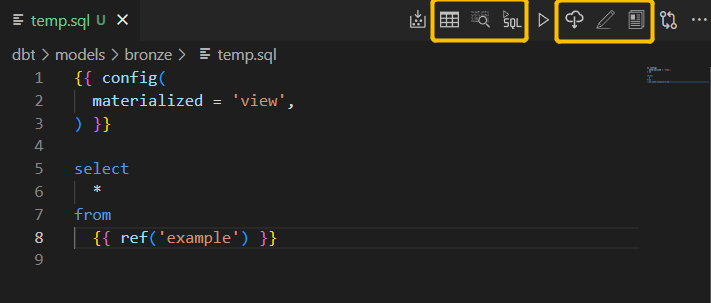
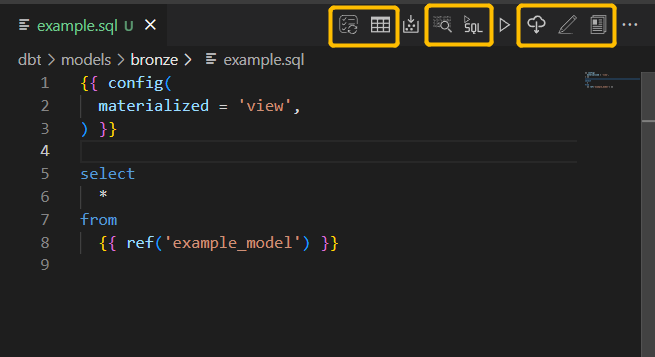
added list models

diff --git a/src/commands/runModel.ts b/src/commands/runModel.ts
@@ -18,11 +18,18 @@ export class RunModel {
 
   runDbtGenDocs() {
     const fullPath = window.activeTextEditor?.document.uri;
-    // const a = projectu
     if (fullPath !== undefined) {
       this.genDBTDocs();
     }
   }  
+
+  runManualListModel() {
+    const fullPath = window.activeTextEditor?.document.uri;
+    if (fullPath !== undefined) {
+      this.manualListModel();
+    }
+  } 
+  
   runDbtServeDocs() {
     const fullPath = window.activeTextEditor?.document.uri;
     // const a = projectu
@@ -78,7 +85,6 @@ export class RunModel {
   runDBTModel(modelPath: Uri, type?: RunModelType) {
     this.dbtProjectContainer.runModel(modelPath, type);
   }
-
   genDBTDocs() {
     const fullPath = window.activeTextEditor?.document.uri;
     if (fullPath !== undefined) {
@@ -87,6 +93,16 @@ export class RunModel {
         return;
       }
       this.dbtProjectContainer.genDocs(dbtProject.projectRoot);
+    }
+  }
+  manualListModel() {
+    const fullPath = window.activeTextEditor?.document.uri;
+    if (fullPath !== undefined) {
+      const dbtProject = this.dbtProjectContainer.findDBTProject(fullPath);
+      if (dbtProject === undefined) {
+        return;
+      }
+      this.dbtProjectContainer.manualListModel(dbtProject.projectRoot);
     }
   }
   serveDBTDocs() {

diff --git a/src/commands/index.ts b/src/commands/index.ts
@@ -23,6 +23,9 @@ export class VSCodeCommands implements Disposable {
       commands.registerCommand("dbtPowerUser.runDbtGenDocs", () =>
         this.runModel.runDbtGenDocs()
       ),  
+      commands.registerCommand("dbtPowerUser.runManualListModel", () =>
+        this.runModel.runManualListModel()
+      ), 
       commands.registerCommand("dbtPowerUser.runDbtServeDocs", () =>
         this.runModel.runDbtServeDocs()
       ),           

diff --git a/src/dbt_client/index.ts b/src/dbt_client/index.ts
@@ -108,6 +108,11 @@ export class DBTClient implements Disposable {
       this.dbtCommandFactory.createListCommand(projectUri)
     );
   }
+  async manualListModel(projectUri: Uri): Promise<void> {
+    this.addCommandToQueue(
+      this.dbtCommandFactory.createListCommand(projectUri)
+    );
+  }   
   async genDocs(projectUri: Uri): Promise<void> {
     this.addCommandToQueue(
       this.dbtCommandFactory.createDocGenCommand(projectUri)

diff --git a/src/manifest/dbtProjectContainer.ts b/src/manifest/dbtProjectContainer.ts
@@ -80,6 +80,11 @@ export class DBTProjectContainer implements Disposable {
   genDocs(projectUri: Uri) {
     this.dbtClient.genDocs(projectUri);
   }
+  manualListModel(projectUri: Uri) {
+    this.dbtClient.manualListModel(projectUri);
+  }
+
+  
   serveDocs(projectUri: Uri) {
     this.dbtClient.serveDocs(projectUri);
   }  

diff --git a/README.md b/README.md
@@ -5,10 +5,10 @@
 This extension makes vscode work with [dbt](https://www.getdbt.com/) and [Databricks](https://databricks.com/) (It should also work with other providers like `BiqQuery`, but I haven't got chance to test other providers, so let me know how you go if you have tried :) ) This extension is a fork on the [vscode-dbt-power-user](https://github.com/innoverio/vscode-dbt-power-user) extension made by Innoverio, 
 and the [vscode-dbt-bigquery-power-user](https://github.com/butchland/vscode-dbt-bigquery-power-user) made by Butchland. 
 
-In addition to the [existing functions](https://github.com/innoverio/vscode-dbt-power-user/blob/master/README.md) (e.g. <img src="media/build_light.svg" alt="Compile Current Model" height="20"/> **Compile Current Model**, <img src="media/run-light.svg" alt="Run Current Model" height="20"/> **Run Current Model**) of the `vscode-dbt-power-user`, the following functions have been added via the buttons on the active windows (See below for the added functions/buttons).
+In addition to the [existing functions](https://github.com/innoverio/vscode-dbt-power-user/blob/master/README.md) (e.g. <img src="media/build_light.svg" alt="Compile Current Model" height="20"/> **Compile Current Model**, <img src="media/run-light.svg" alt="Run Current Model" height="20"/> **Run Current Model**) of the `vscode-dbt-power-user`, the following seven functions have been added via the buttons on the active windows (See below for the added functions/buttons).
 
 
-
+* <img src="media/list_models.svg" alt="Preview Current Model" height="20"/> **List models** - runs 'dbt list' to lists resources in your dbt project. It updates the model nodes tree when your update your model. A default `dbt.listModelsDisabled` flag can be set in the extension setup to enable/disable automatic listing of models when files change. If auto-list is disabled (which I personally prefer), this button here can be handy.
 * <img src="media/preview_table.svg" alt="Preview Current Model" height="20"/> **Preview Current Model** - uses the compiled SQL to preview the table without materializing it on the cloud. Note: this operation triggers a DBT re-compiling first. If you don't need to recompile, you can user 'Show Compiled' and 'Run SQL As-is'
 * <img src="media/view_compiled.svg" alt="Show Compiled" height="20"/> **Show Compiled** - opens the compiled sql version of the model (inherited from Butchland's work)
 * <img src="media/run_sql.svg" alt="Run SQL As-is" height="20"/> **Run SQL As-Is** - run the 'as-is' (i.e. even the unsaved code) SQL from current active window. For example, it can be used on the compiled code or be used like a query editor, but very likely it won't work on the model window as it doesn't compile codes like '`{{ ref('example_model') }}`'.
